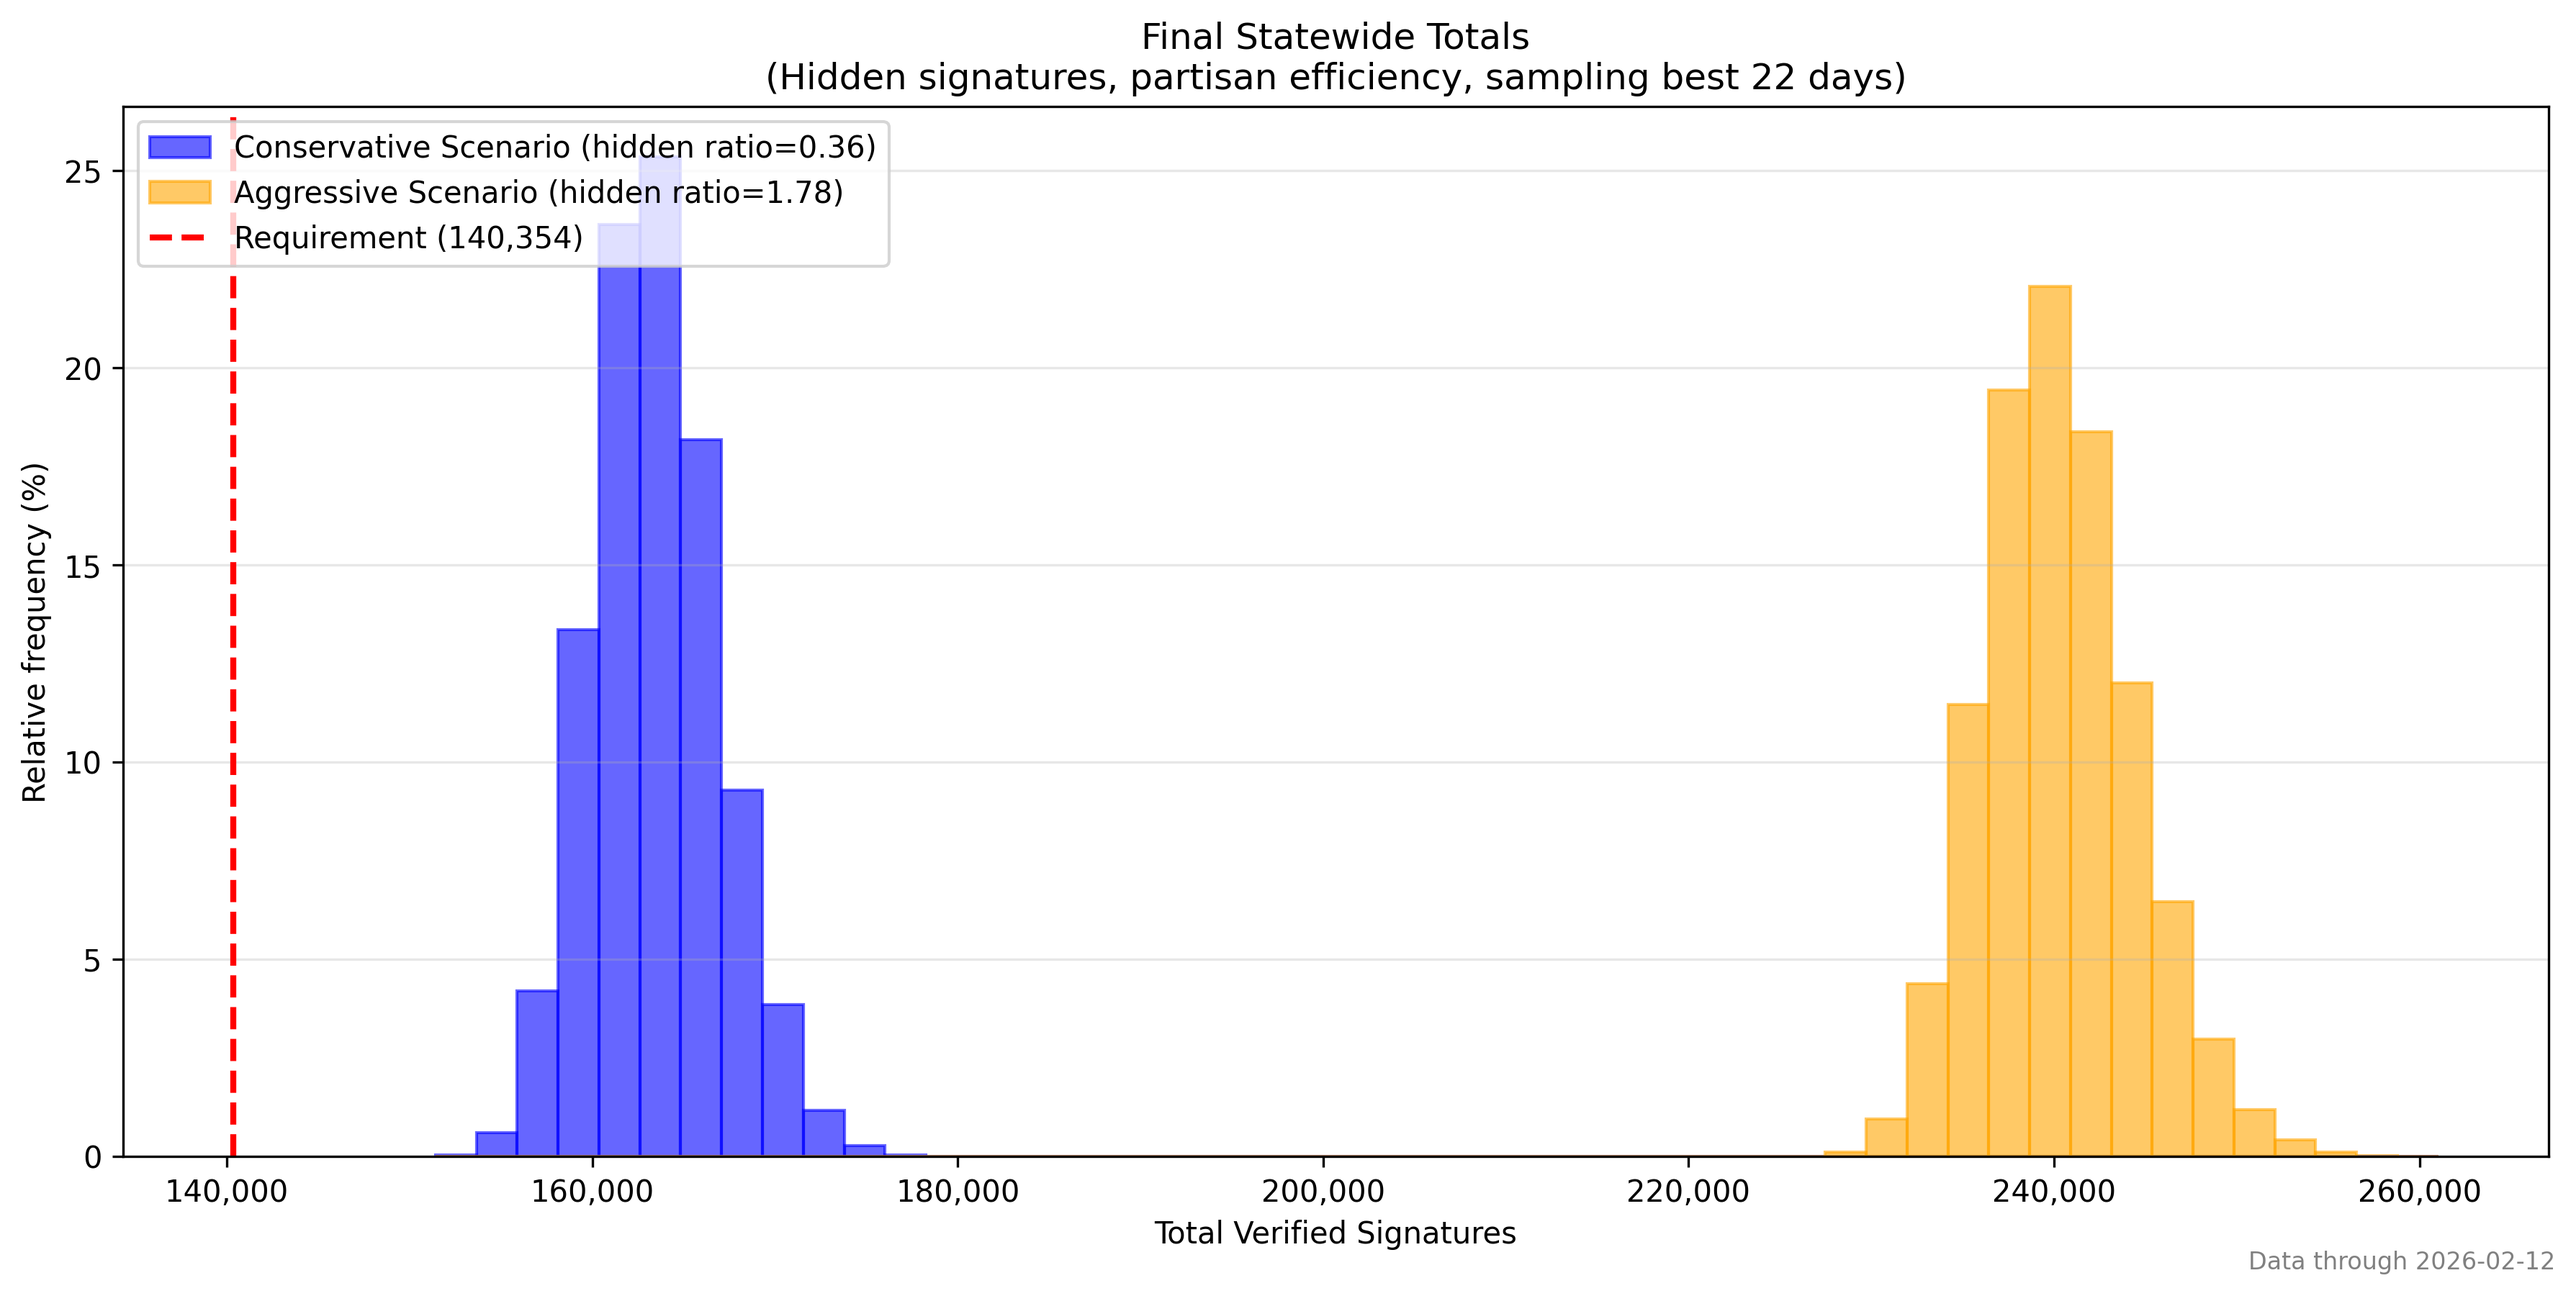
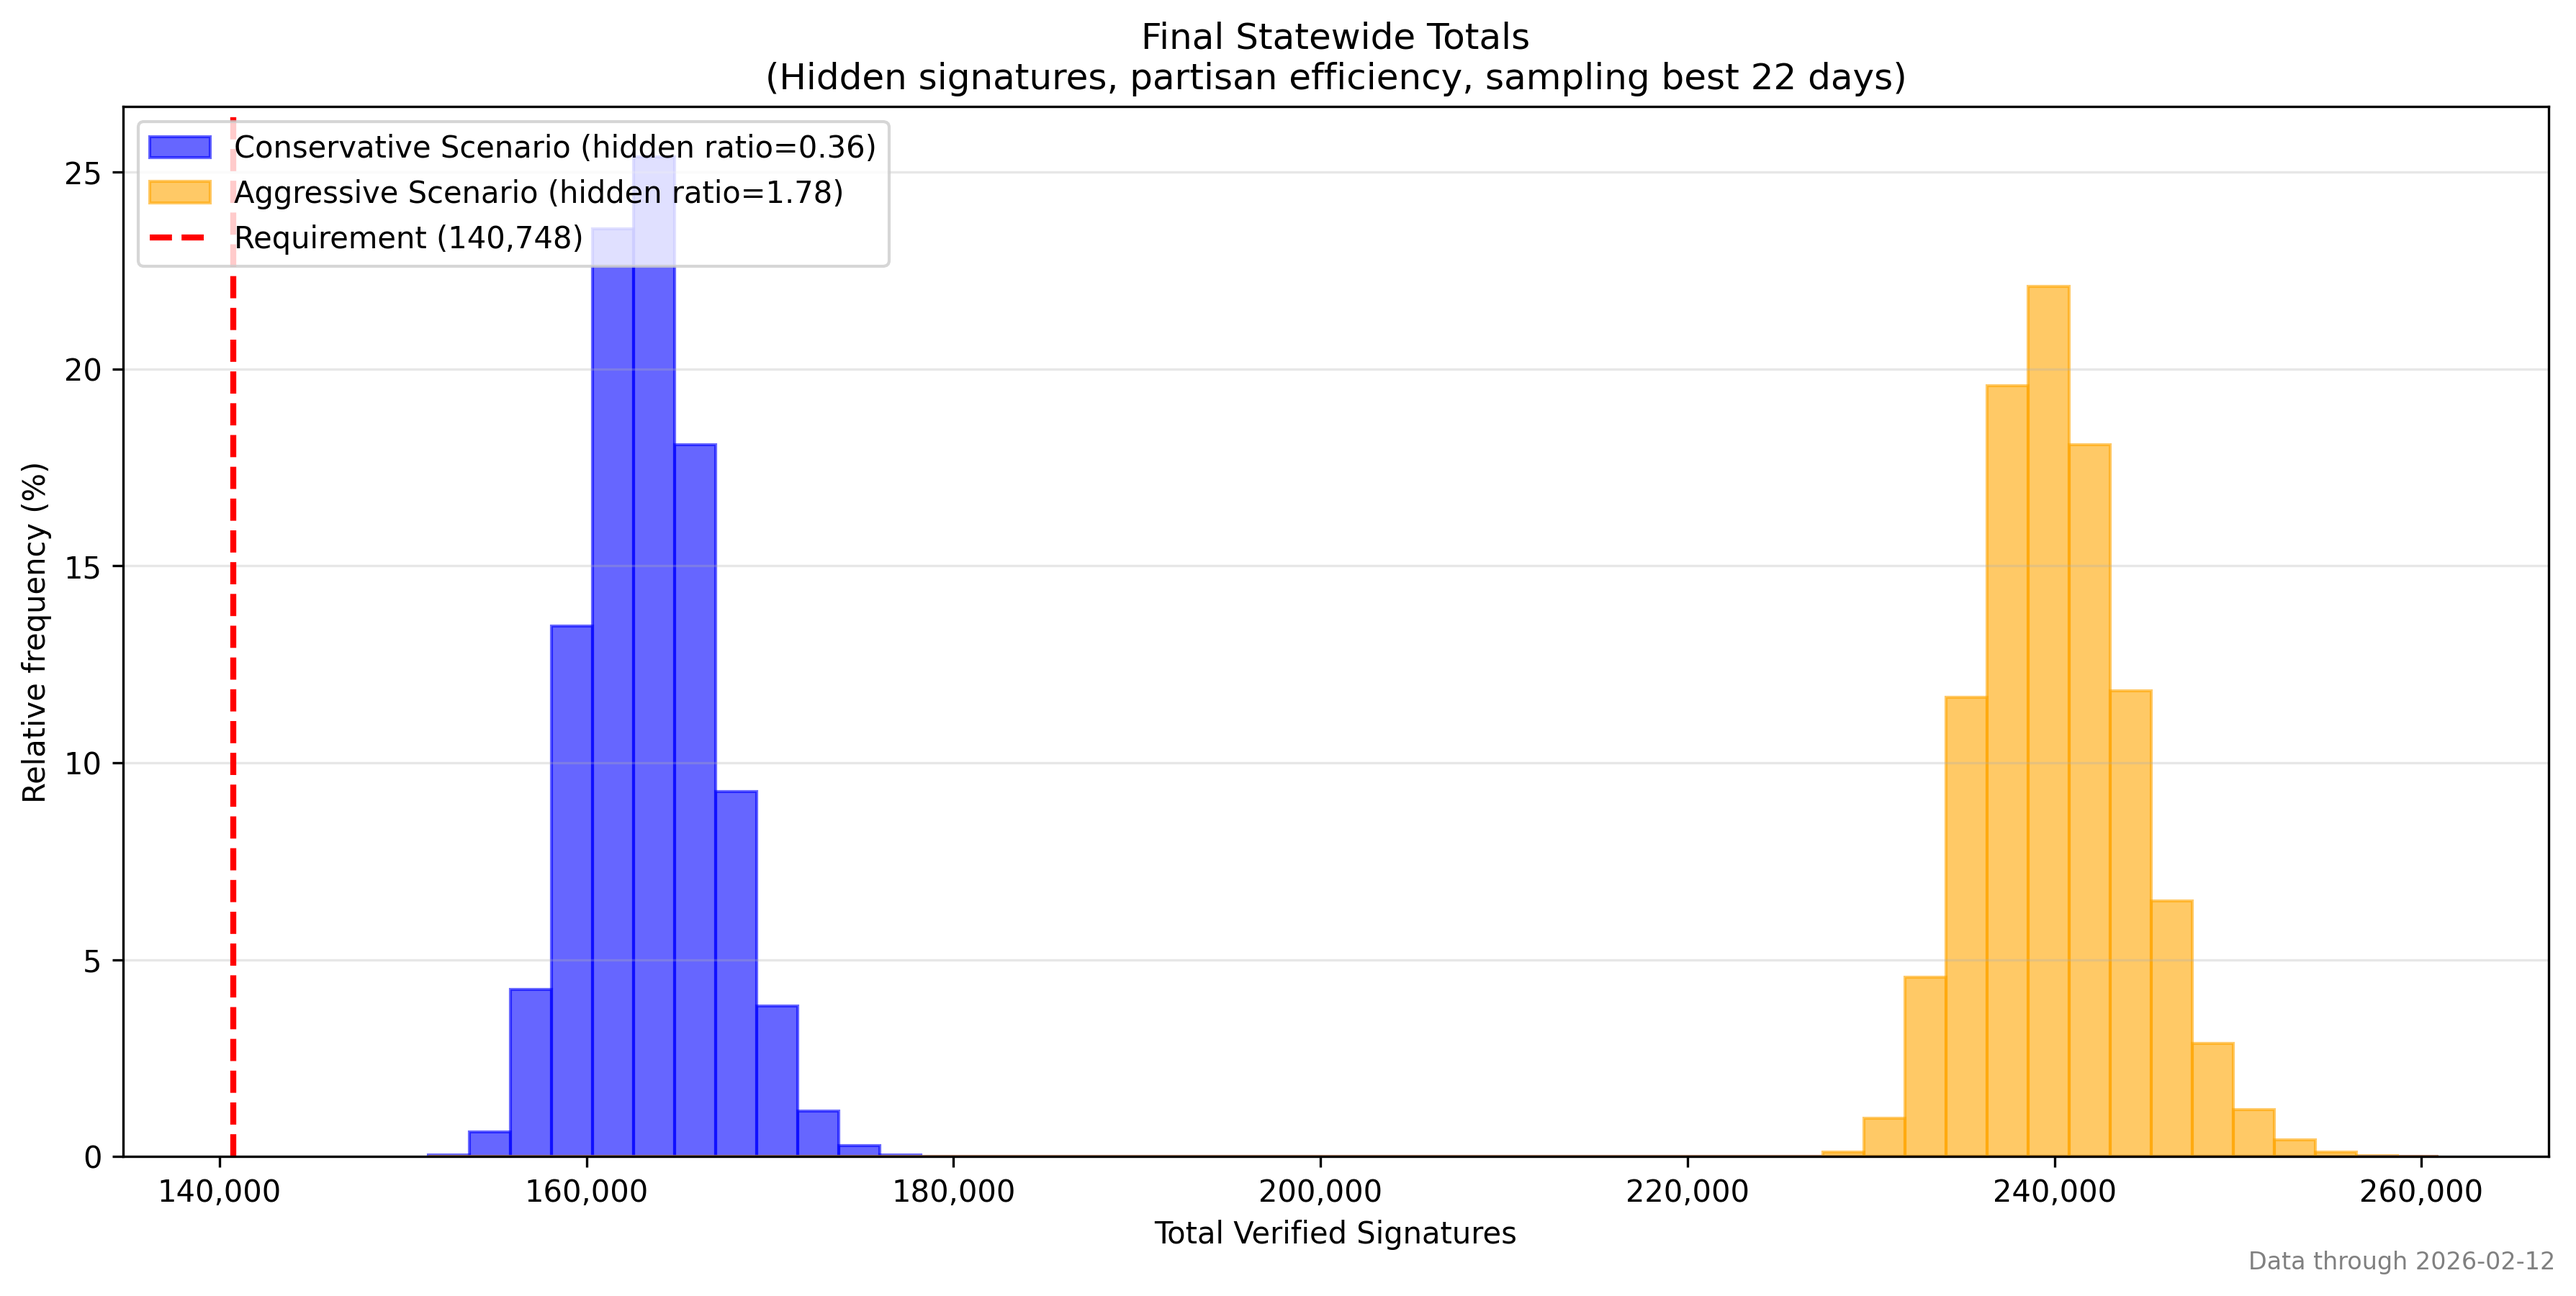
Updated district thresholds

diff --git a/hidden_w_partisan_boost.py b/hidden_w_partisan_boost.py
@@ -56,14 +56,22 @@ if not os.path.exists(FIGURES_DIR):
 # HARDCODED REQUIREMENTS
 # ======================
 DISTRICT_REQS = {
-    1: 5238, 2: 4686, 3: 4737, 4: 5099, 5: 4115, 
-    6: 4745, 7: 5294, 8: 4890, 9: 4431, 10: 2975, 
+    1: 5238, 2: 4687, 3: 4737, 4: 5099, 5: 4115, 
+    6: 4745, 7: 5294, 8: 4910, 9: 4805, 10: 2975, 
     11: 4890, 12: 3248, 13: 4088, 14: 5680, 15: 4596, 
     16: 4347, 17: 5368, 18: 5093, 19: 5715, 20: 5292, 
     21: 5684, 22: 5411, 23: 4253, 24: 3857, 25: 4929, 
     26: 5178, 27: 5696, 28: 5437, 29: 5382
 }
-STATEWIDE_REQ = sum(DISTRICT_REQS.values())
+# DISTRICT_REQS = {
+#     1: 5238, 2: 4686, 3: 4737, 4: 5099, 5: 4115,
+#     6: 4745, 7: 5294, 8: 4890, 9: 4431, 10: 2975, 
+#     11: 4890, 12: 3248, 13: 4088, 14: 5680, 15: 4596, 
+#     16: 4347, 17: 5368, 18: 5093, 19: 5715, 20: 5292, 
+#     21: 5684, 22: 5411, 23: 4253, 24: 3857, 25: 4929, 
+#     26: 5178, 27: 5696, 28: 5437, 29: 5382
+# }
+STATEWIDE_REQ = 140748
 
 # ============
 # DATA LOADING

diff --git a/historical_simulations.py b/historical_simulations.py
@@ -44,13 +44,21 @@ OPTIMISM_THRESHOLD = 0.75
 # HARDCODED REQUIREMENTS (2026)
 # ==========================================
 DISTRICT_REQS = {
-    1: 5238, 2: 4686, 3: 4737, 4: 5099, 5: 4115, 
-    6: 4745, 7: 5294, 8: 4890, 9: 4431, 10: 2975, 
+    1: 5238, 2: 4687, 3: 4737, 4: 5099, 5: 4115, 
+    6: 4745, 7: 5294, 8: 4910, 9: 4805, 10: 2975, 
     11: 4890, 12: 3248, 13: 4088, 14: 5680, 15: 4596, 
     16: 4347, 17: 5368, 18: 5093, 19: 5715, 20: 5292, 
     21: 5684, 22: 5411, 23: 4253, 24: 3857, 25: 4929, 
     26: 5178, 27: 5696, 28: 5437, 29: 5382
 }
+# DISTRICT_REQS = {
+#     1: 5238, 2: 4686, 3: 4737, 4: 5099, 5: 4115,
+#     6: 4745, 7: 5294, 8: 4890, 9: 4431, 10: 2975, 
+#     11: 4890, 12: 3248, 13: 4088, 14: 5680, 15: 4596, 
+#     16: 4347, 17: 5368, 18: 5093, 19: 5715, 20: 5292, 
+#     21: 5684, 22: 5411, 23: 4253, 24: 3857, 25: 4929, 
+#     26: 5178, 27: 5696, 28: 5437, 29: 5382
+# }
 STATEWIDE_REQ = 140748
 
 # ==========================================
